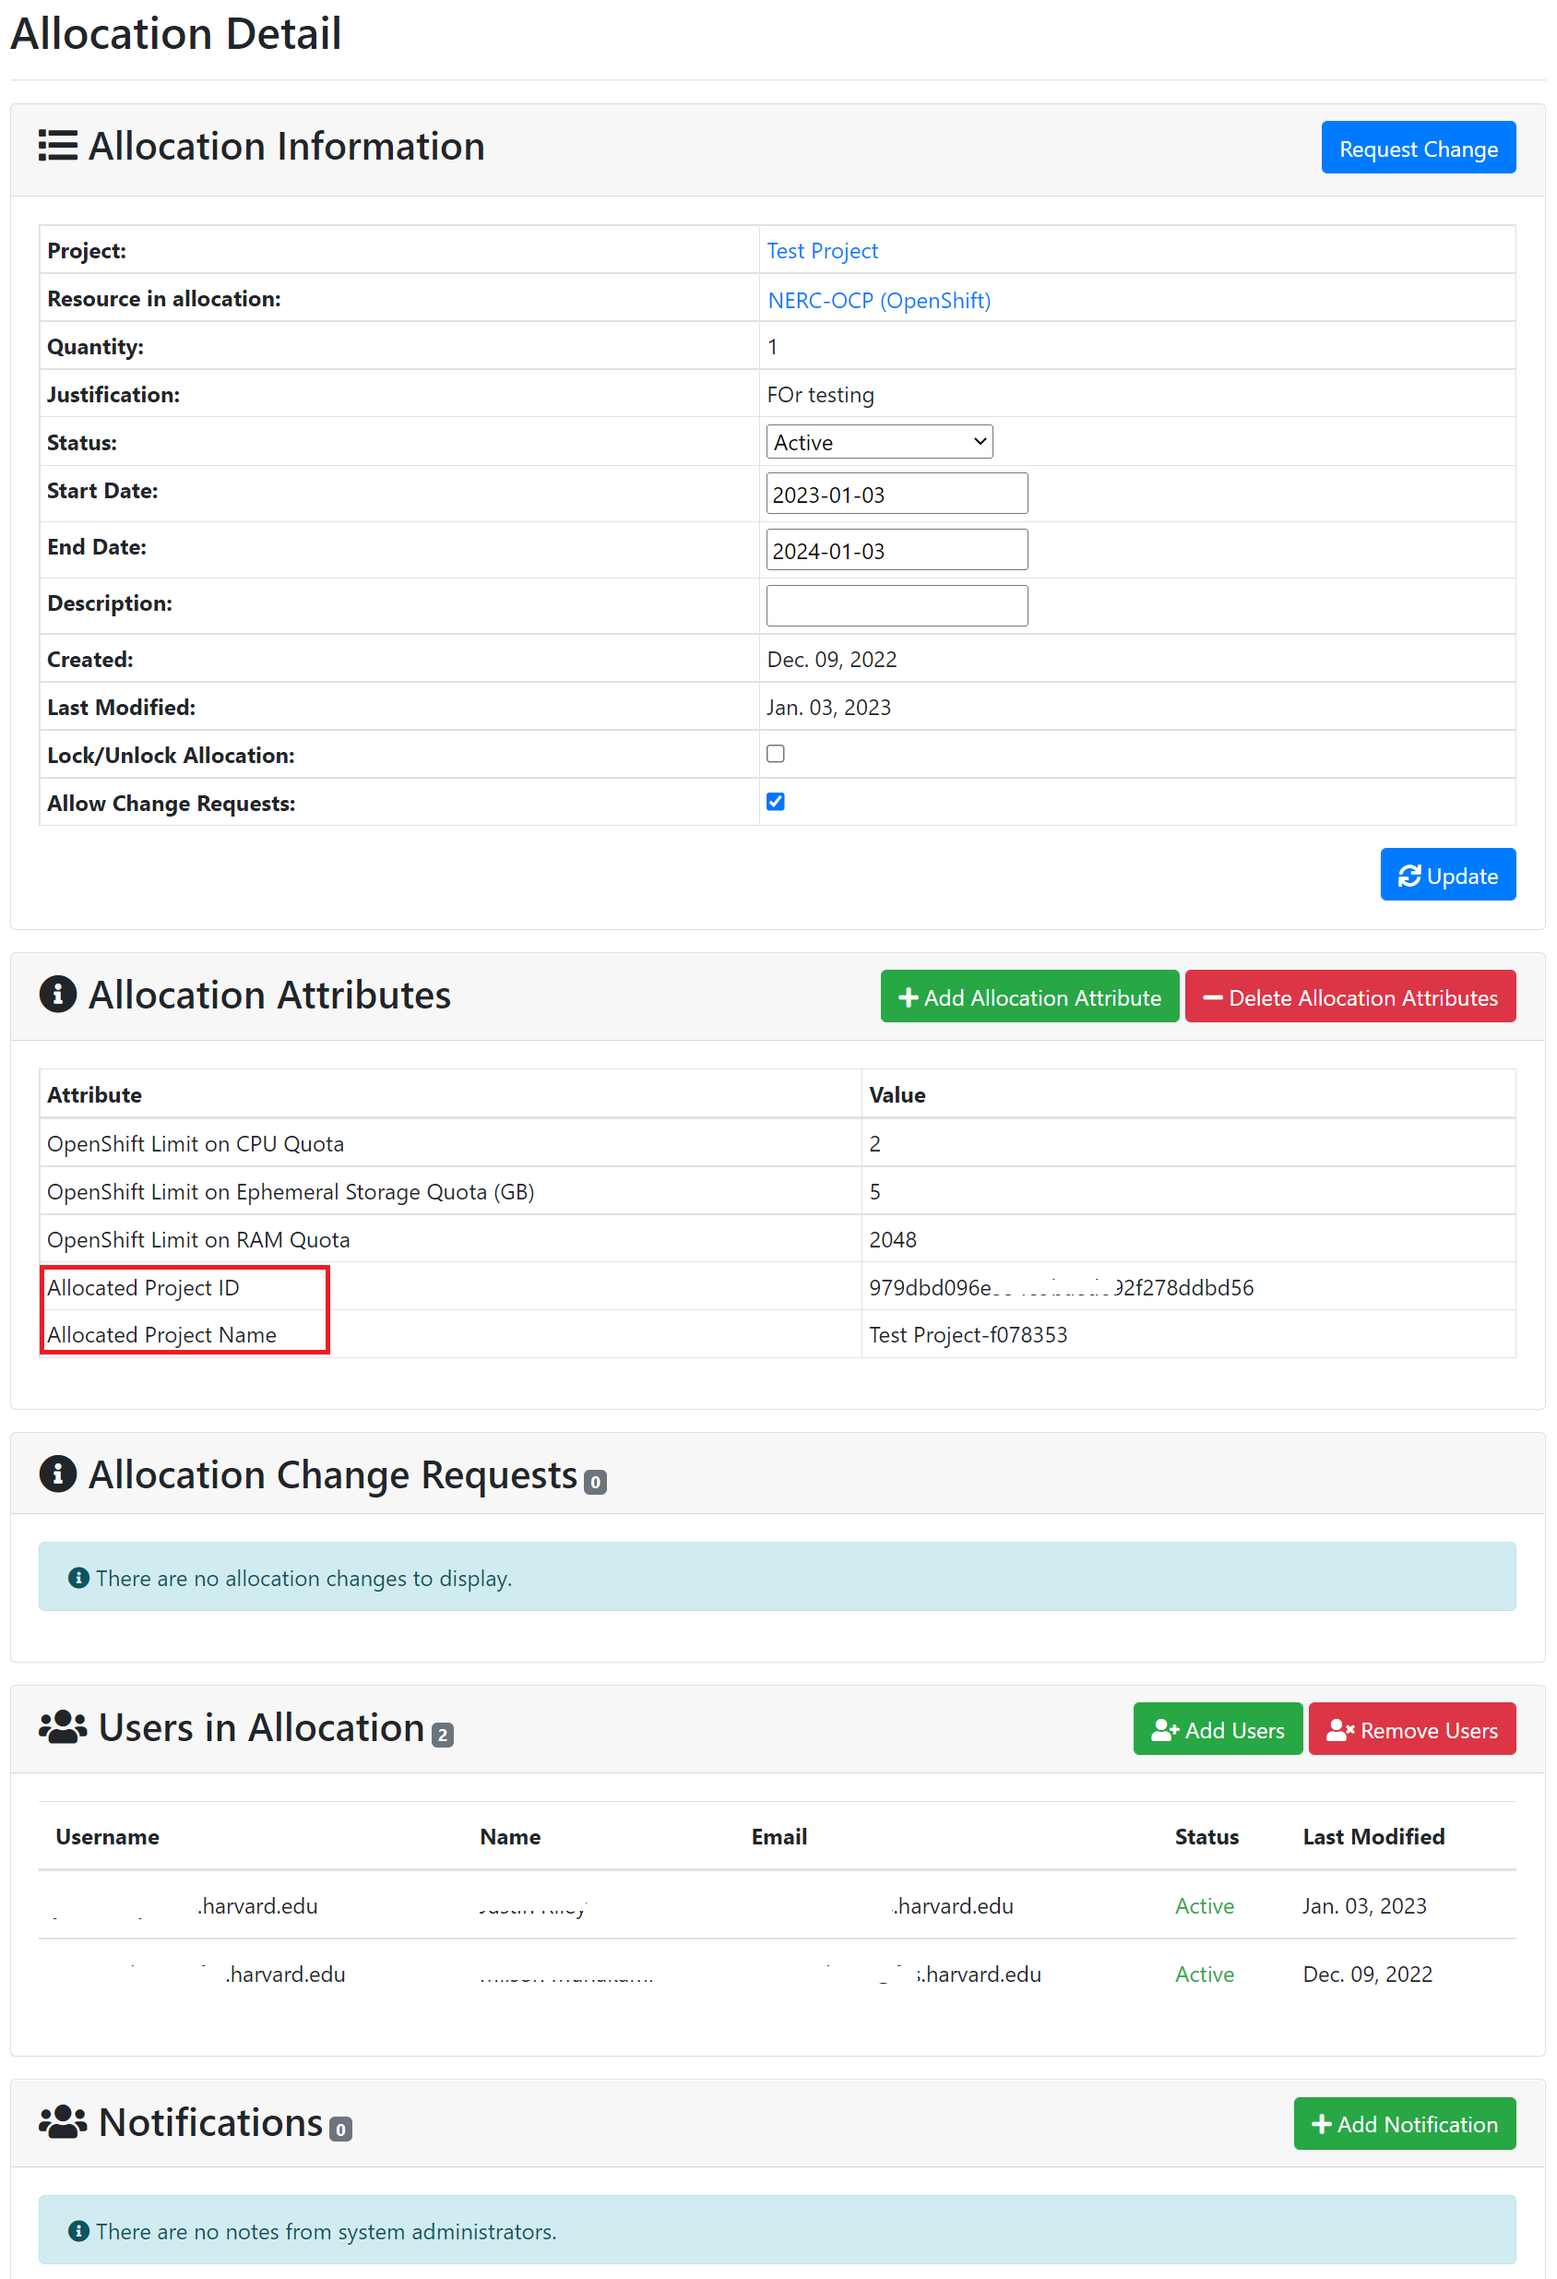
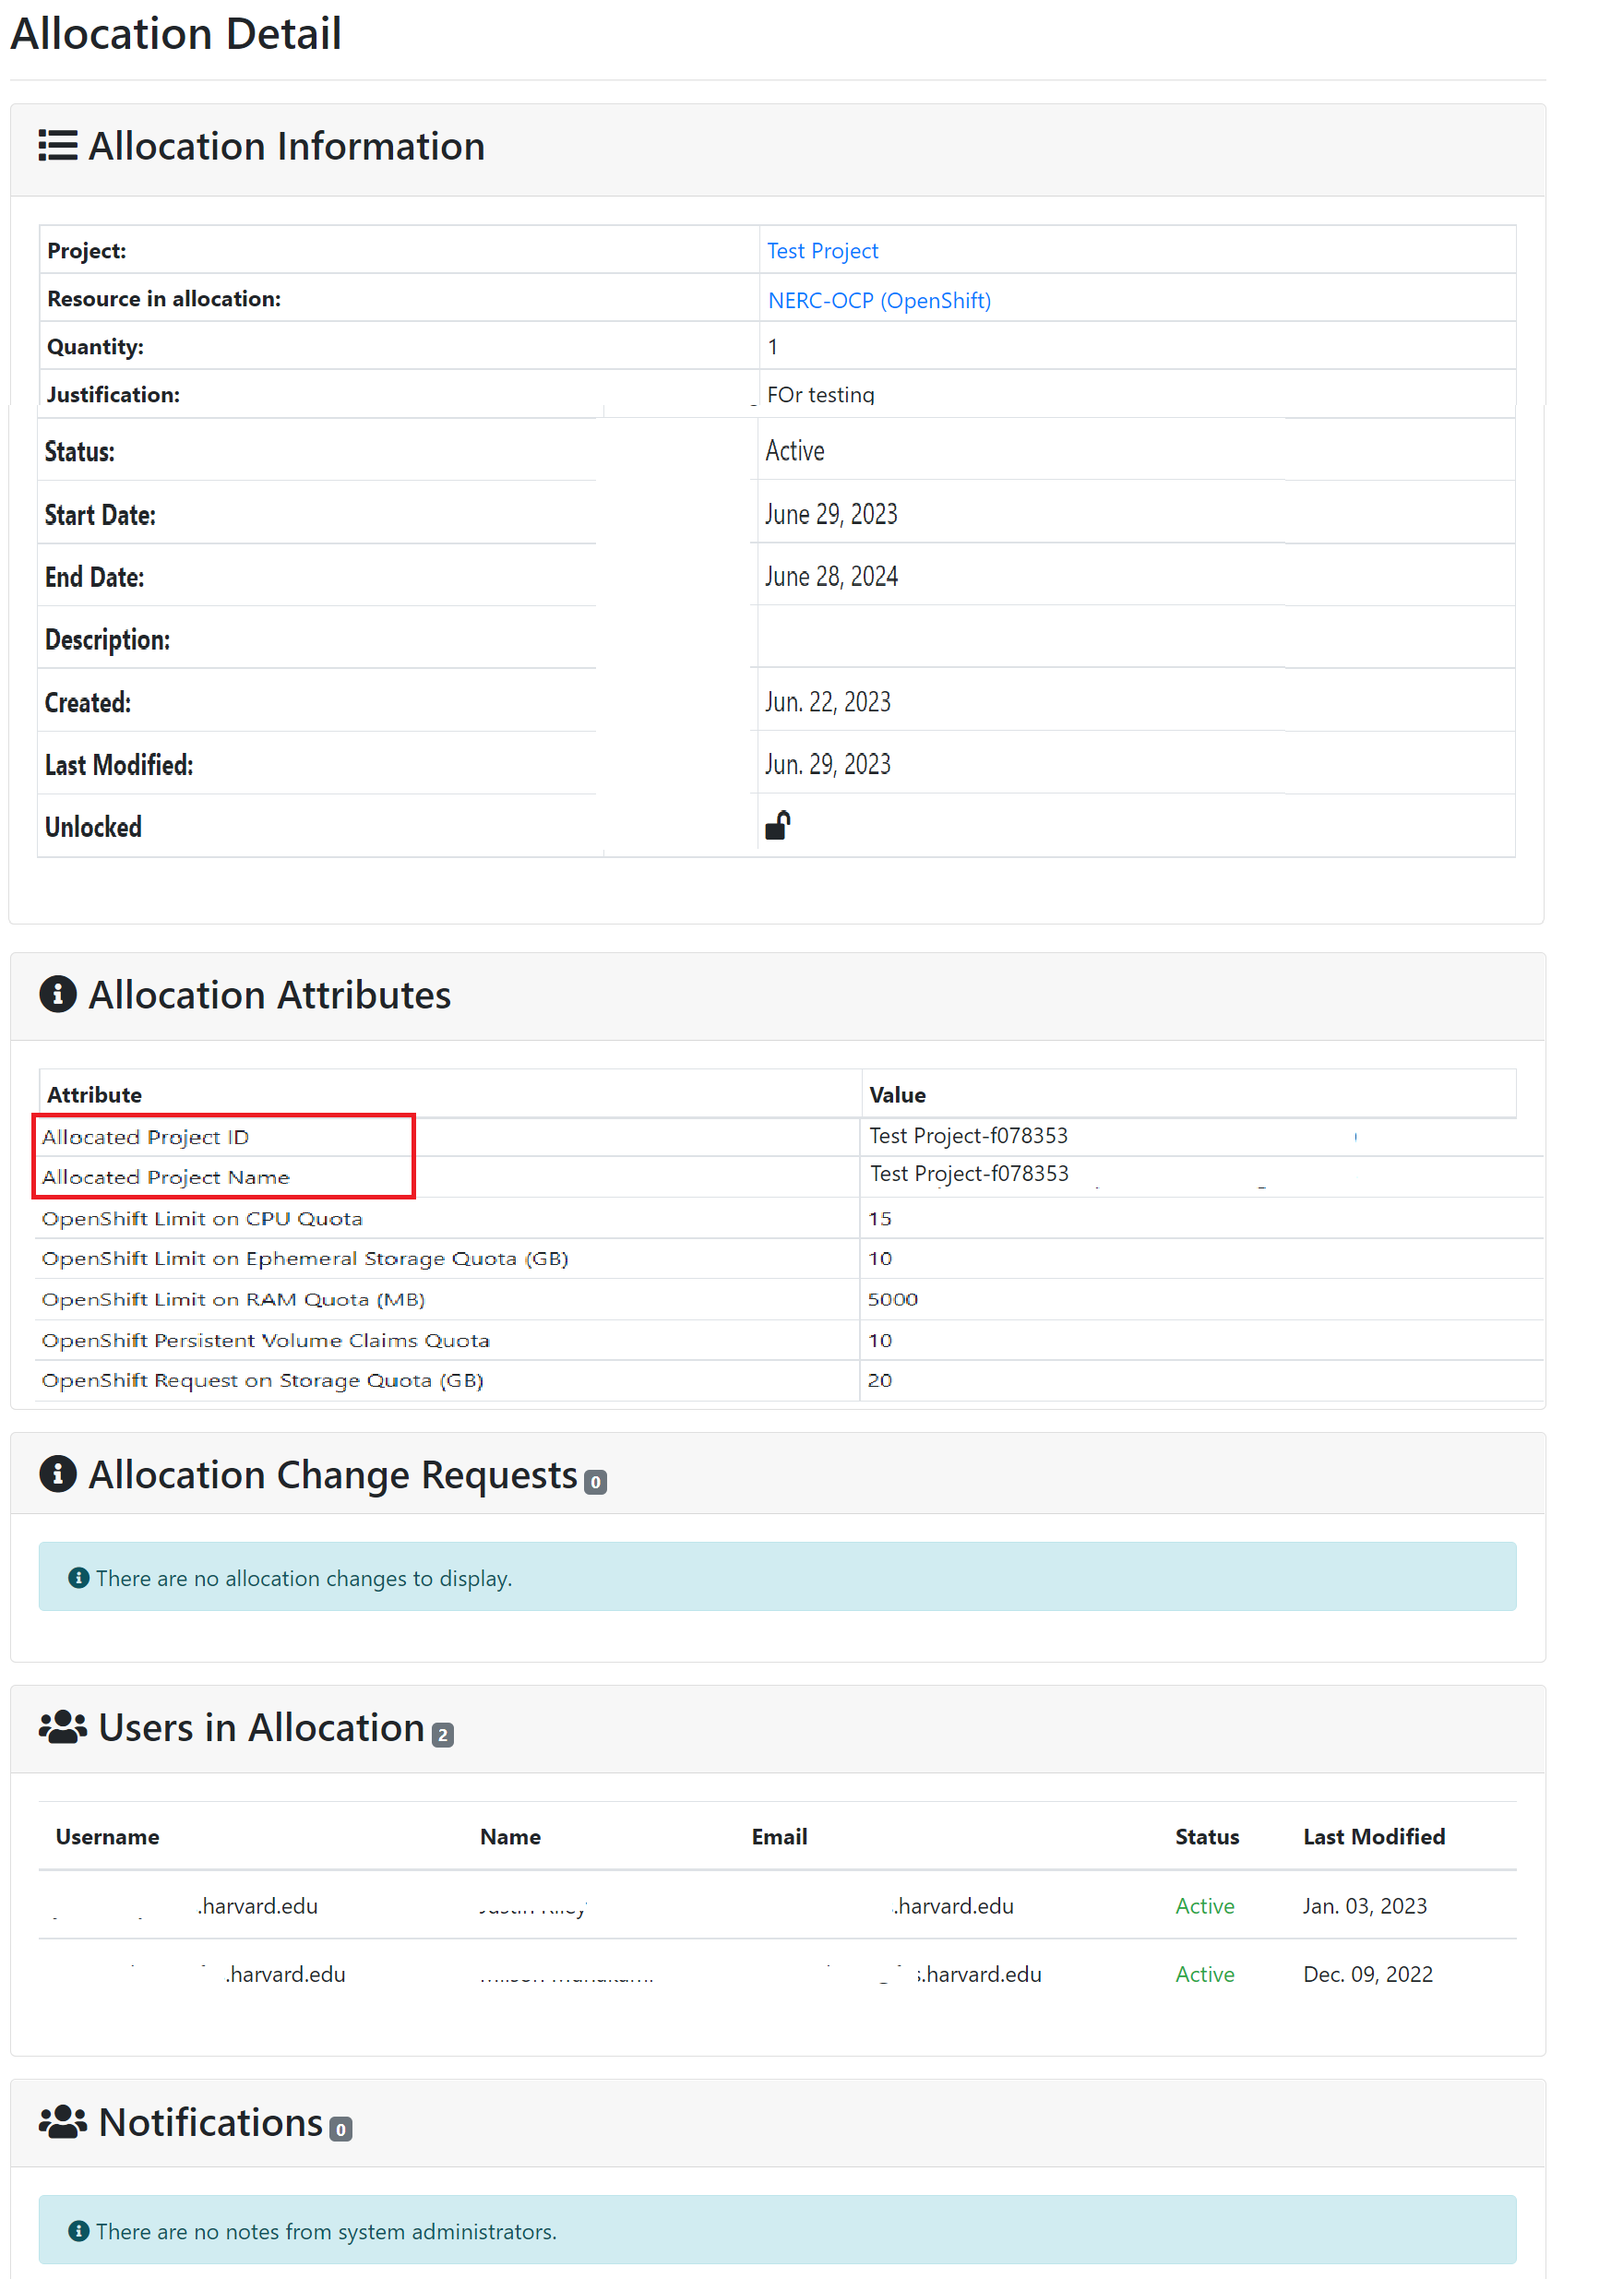
allocation detail and Harvard billing process

diff --git a/docs/get-started/cost-billing/billing-process-for-harvard.md b/docs/get-started/cost-billing/billing-process-for-harvard.md
@@ -1,6 +1,9 @@
 # Billing Process for Harvard University
 
-NERC billing at Harvard will be similar to how AWS accounts are billed and leverage
+Direct Billing for NERC is a convenience service for Harvard Faculty and Departments.
+HUIT will pay the monthly invoices and then allocate the monthly usage costs on
+the Harvard University General Ledger. This follows a similar pattern with how
+other Public Cloud Providers (AWS, Azure, GCP) accounts are billed and leverage
 the HUIT Central Billing [Portal](https://billing.huit.harvard.edu/). Your HUIT
 Customer Code will be matched to your NERC Project Allocation Name as a Billing
 Asset. In this process you will be asked for your GL billing code, which you can
@@ -8,9 +11,12 @@ change as needed per project. Please be cognizant that only a single billing cod
 is allowed per billing asset. Therefore, if you have multiple projects with different
 funds, if you are able, please create a separate project for each fund. Otherwise,
 you will need to take care of this with internal journals inside of your department
-or lab. Each monthly billing cycle, the HUIT billing team will review and update
-the cost per asset. Subsequently, they will email billing cost information for
-each asset to the corresponding billing email addresses of all customers.
+or lab. During each monthly billing cycle, the NERC team will upload the billing
+Comma-separated values (CSV) files to the HUIT Central Billing system accessible
+AWS Object Storage (S3) bucket. The HUIT Central Billing system ingests billing
+data files provided by NERC, maps the usage costs to HUIT Billing customers
+(and GL Codes) and then includes those amounts in HUIT Monthly Billing of all
+customers. This is an automated process.
 
 Please follow these two steps to ensure proper billing setup:
 
@@ -28,7 +34,7 @@ with your HarvardKey.
 
 2. Provide NERC your six-digit HUIT “Customer Code” via
 [help@nerc.mghpcc.org](mailto:help@nerc.mghpcc.org?subject=NERC%20HUIT%20Customer%20Code%Details)
-and specify which OpenShift or OpenStack project this is for.
+and specify which OpenShift or OpenStack project allocation this is for.
 
     !!! info "How to get the Allocated Project Name and Allocated Project ID?"
         By clicking on the Allocation detail page through ColdFront, you can access
@@ -36,7 +42,7 @@ and specify which OpenShift or OpenStack project this is for.
         OpenShift as described [here](../get-an-allocation.md#general-user-view).
         You will need to provide us **Allocated Project Name** and **Allocated Project
         ID** attributes, which are located under the “Allocation Attributes”
-        section on the detail page.
+        section on the detail page as described [here](../get-an-allocation.md#pi-and-manager-allocation-view).
 
     Once NERC has receive the six-digit HUIT Customer Code for the PI, the NERC
     admin team will create a new ServiceNow ticket by contacting

diff --git a/docs/get-started/get-an-allocation.md b/docs/get-started/get-an-allocation.md
@@ -236,7 +236,13 @@ PIs and managers can view important details of the allocation including start an
 end dates, creation and last modified dates, users on the allocation and public
 allocation attributes. PIs and managers can add or remove users from allocations.
 
-![PI and Manager Allocation View](images/coldfront-pi-manager-view.png)
+### PI and Manager Allocation View of OpenStack Resource Allocation
+
+![PI and Manager Allocation View of OpenStack Resource Allocation](images/coldfront-openstack-allocation-pi-manager-view.png)
+
+### PI and Manager Allocation View of OpenShift Resource Allocation
+
+![PI and Manager Allocation View of OpenShift Resource Allocation](images/coldfront-openshift-allocation-pi-manager-view.png)
 
 ## Adding and removing project Users to project Resource Allocation
 
